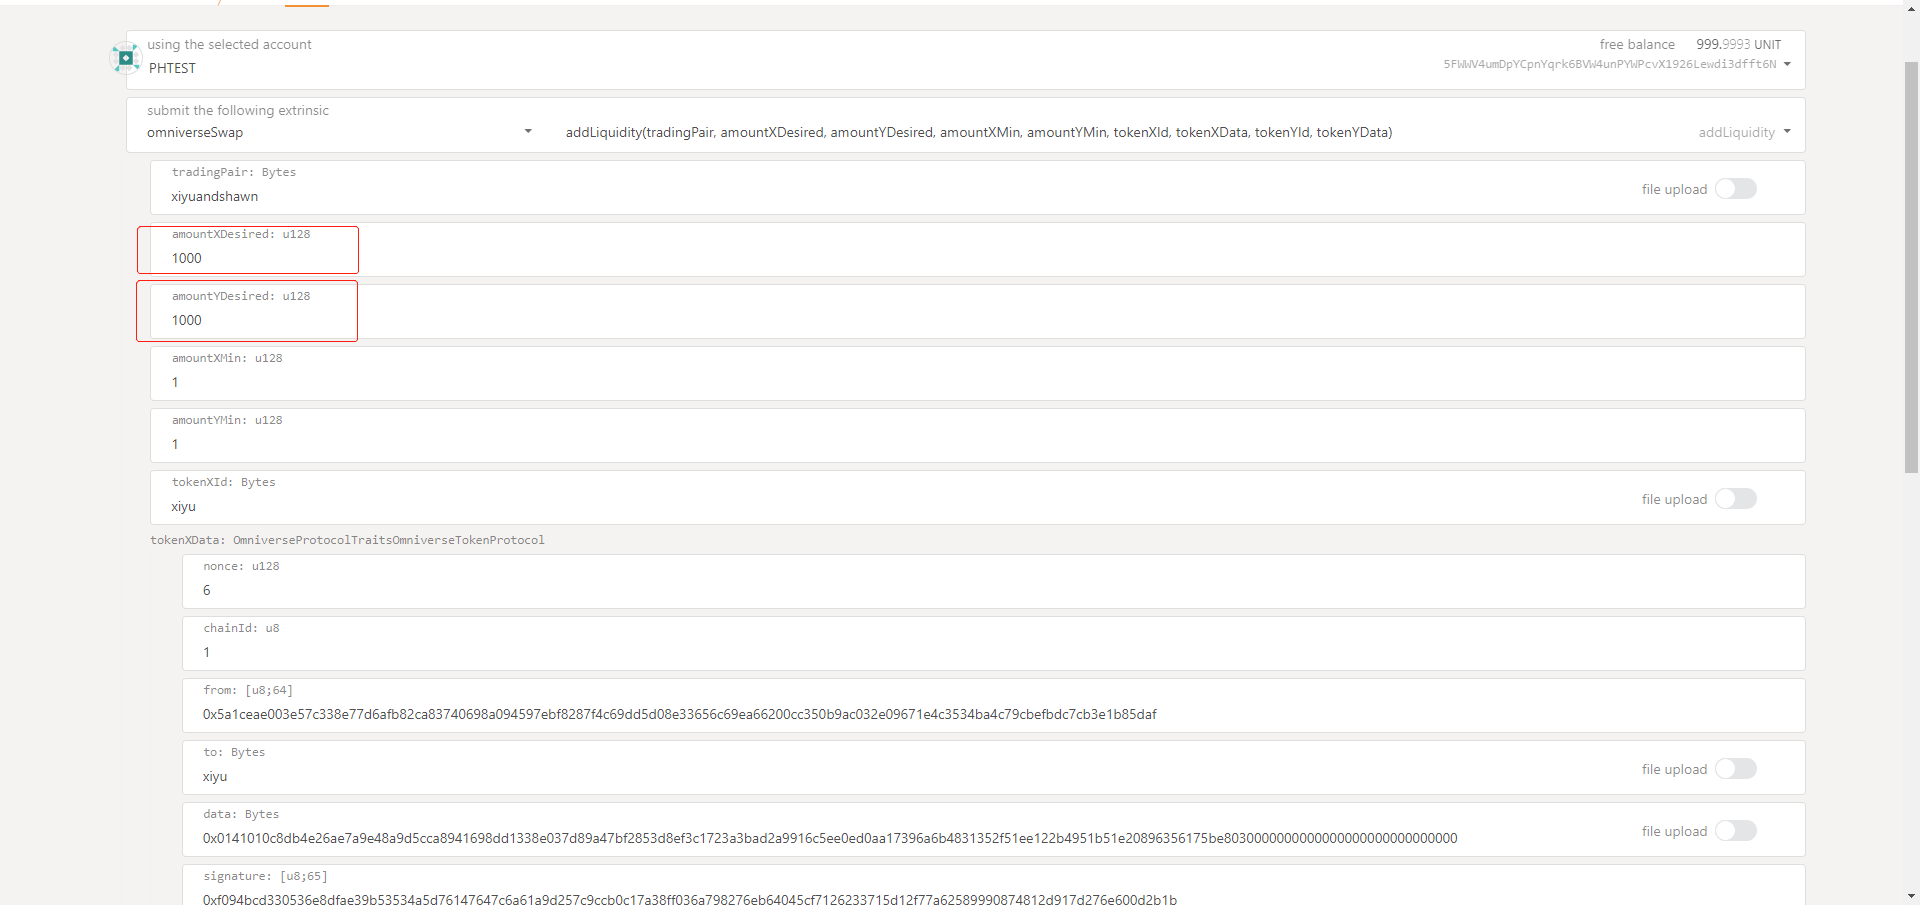
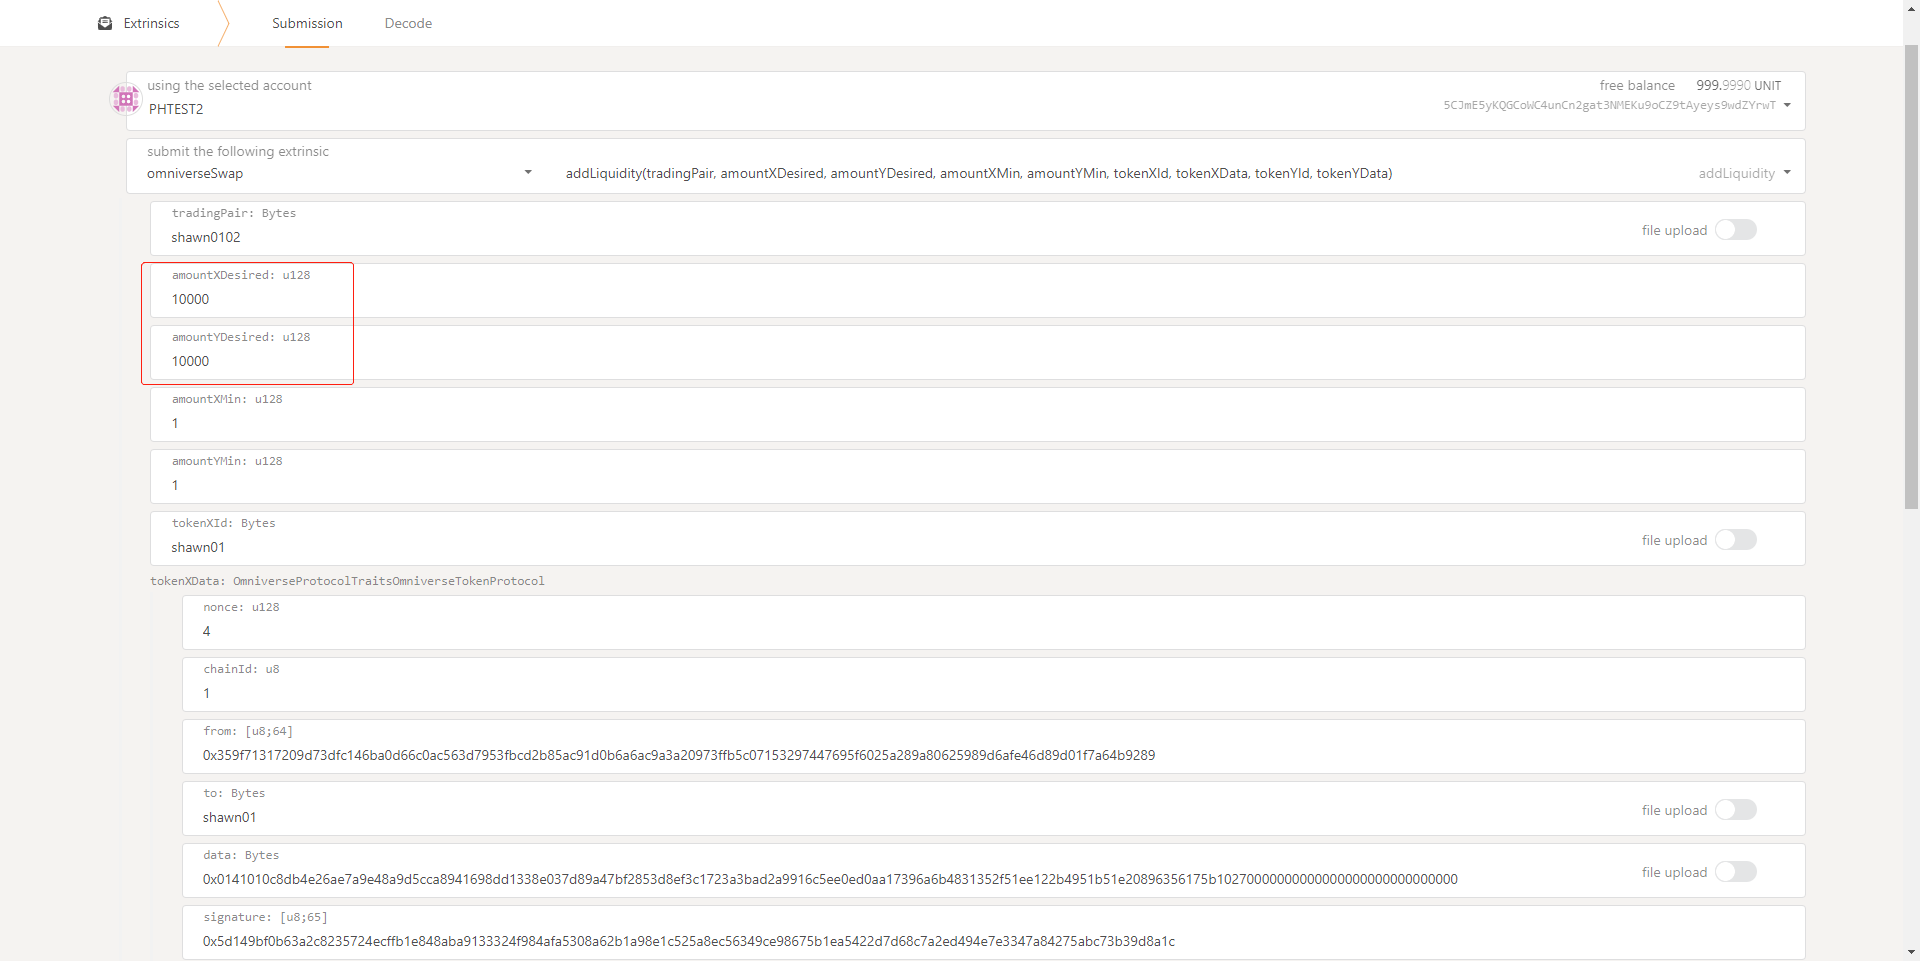
update advanced

diff --git a/teams/38-O20k/docs/README.md b/teams/38-O20k/docs/README.md
@@ -120,12 +120,12 @@ The operations related to the Omniverse Token Protocol(`OTP`) include `Claim`, `
     <!-- * [Initiate on EVM chains](#initiate-transaction-on-evm-chains) -->
 
 ### Claim
-* `Claim` Token $X$:  
+* `Claim` Token $X$ to operation Account:  
     ```sh
     # -c, --claim <tokenId>
     node index.js -c X
     ```
-* `Claim` Token $Y$:
+* `Claim` Token $Y$ to operation Account:
     ```sh
     # -c, --claim <tokenId>
     node index.js -c Y
@@ -250,17 +250,19 @@ We temporarily provided a set of very low APIs for adding token liquidity pool c
     * Generate encapsulated data of deposit liquidity of token:  
     ```sh
     # --generateTx <tokenId>,<o-account>,<amount>
-    node index.js -g xiyu,1000
+    node index.js -g shawn01,10000,shawn02,10000
     ```
-    * `xiyu` is a tokenId.
-    * `1000` is the amount to be deposited.
-    ![img](./assets/add-liquidity-1.png)  
+    * `shawn01`, `shawn02` is a tokenId.
+    * `10000` is the amount to be deposited.
+    ![img](./assets/add-liquidity-2.png)  
     <p id='encapsulate' align='center'>Figure.4 Generate encapsulate data</p>  
     
-    * Remember the amount of token `xiyu` to be deposited(`1`)
-    * Remember the encapsulated Tx data of token `xiyu` (`1.1`)
-    * Remember the amount of token `xiyu` to be deposited (`2`)
-    * Remember the encapsulated Tx data of token `xiyu` (`2.1`)
+    * Remember the name of token `shawn01` to be deposited(`1`)
+    * Remember the amount of token `xiyu` to be deposited(`1.1`)
+    * Remember the encapsulated Tx data of token `xiyu` (`1.3`)
+    * Remember the name of token `shawn02` to be deposited(`2`)
+    * Remember the amount of token `xiyu` to be deposited (`2.1`)
+    * Remember the encapsulated Tx data of token `xiyu` (`2.3`)
 
 * `addLiquidity` with [Polkadot.js](https://polkadot.js.org/apps/?rpc=ws%3A%2F%2F3.74.157.177%3A9944#/extrinsics)
     ![img](./assets/add-liquidity.png)  
